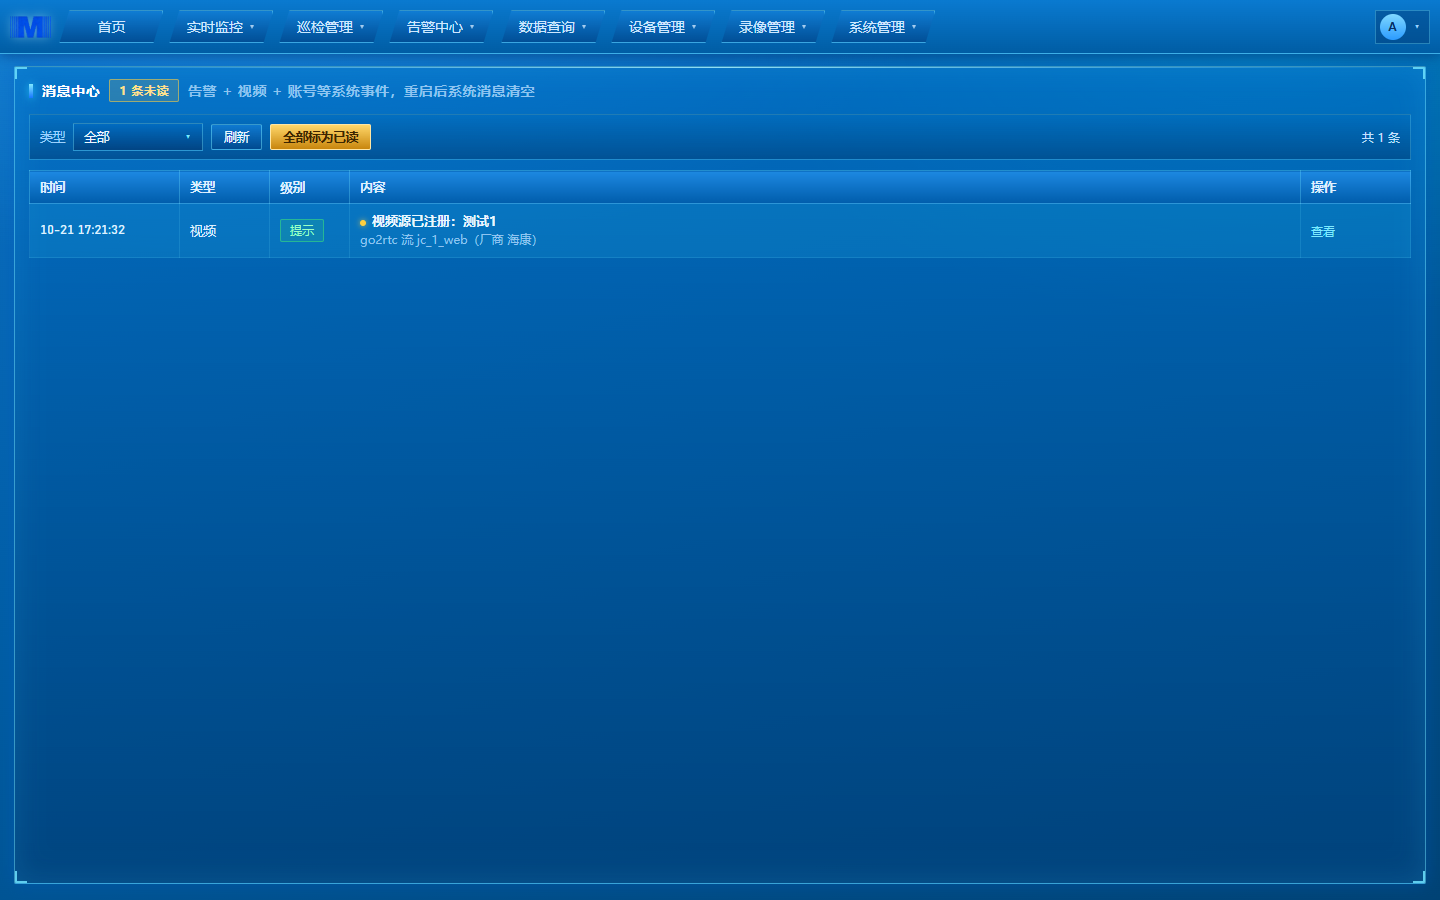
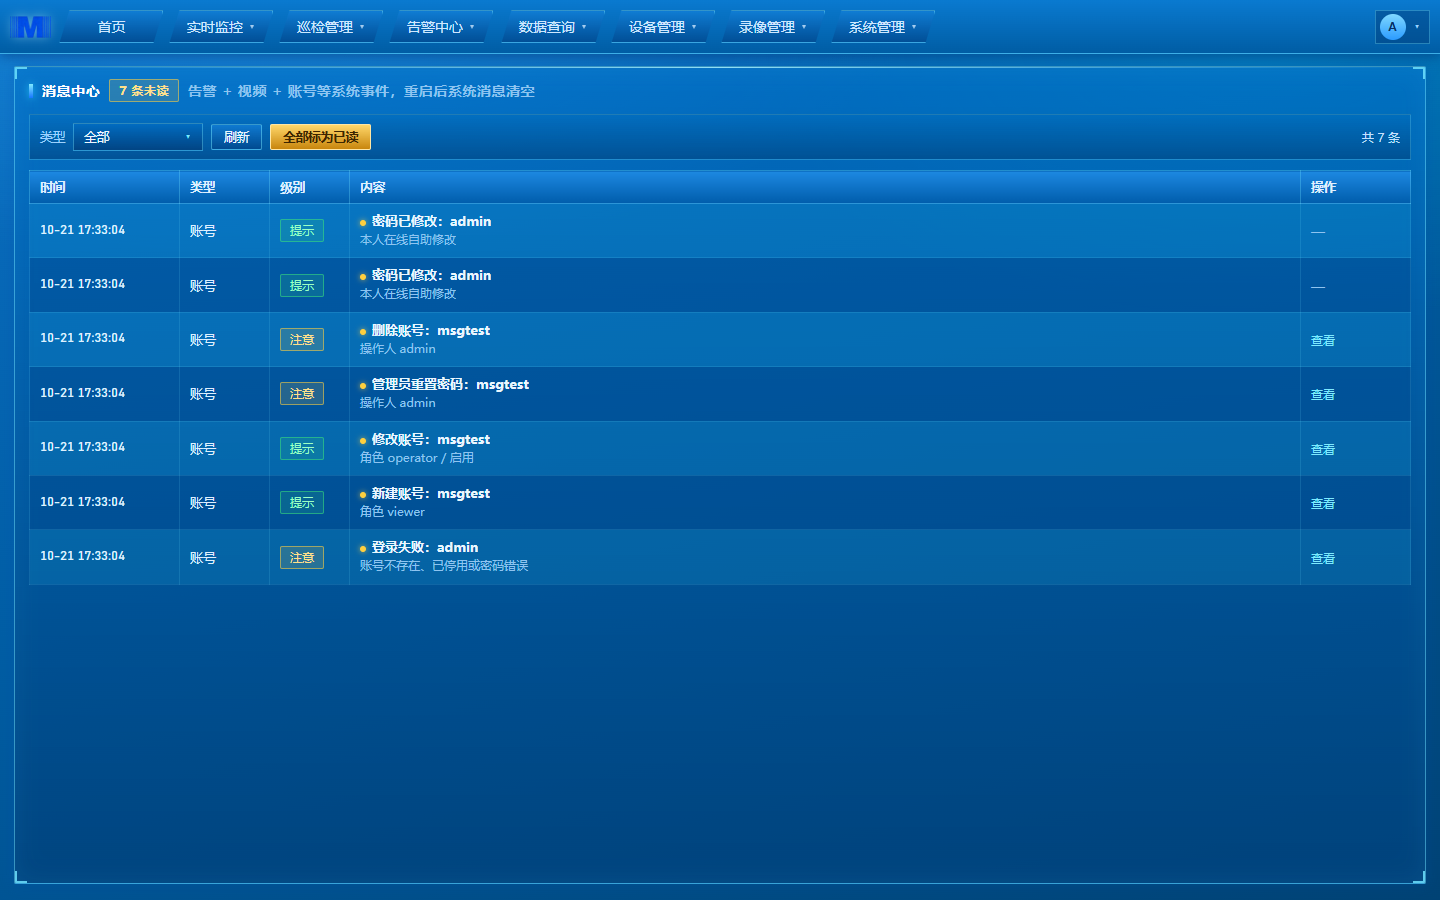
feat: 消息中心补齐系统事件留痕
新增写入点：
- 登录失败（账号不存在/停用/密码错）→ warn
- 新建账号 / 修改角色或启停 / 管理员重置密码 / 删除账号 → info/warn
- 本人自助改密成功 → info
- 能力探测抛异常 → danger（成功后不写，避免噪音）
- go2rtc 注册失败 → danger
- 抓帧失败 → warn，同一路 60 秒只记一条（防刷屏）

消息页筛选补「账号」分类；实测 7 条事件全部落库展示

diff --git a/web/src/pages/Messages.vue b/web/src/pages/Messages.vue
@@ -35,6 +35,7 @@ const filters = [
   { value: 'all', label: '全部' },
   { value: 'alarm', label: '告警' },
   { value: 'video', label: '视频' },
+  { value: 'user', label: '账号' },
   { value: 'system', label: '系统' },
 ]
 

diff --git a/server/app/api/v1/videos.py b/server/app/api/v1/videos.py
@@ -328,11 +328,28 @@ def snapshot(
         raise ExternalUnavailable("抓帧超时，检查摄像头是否在线", code="SNAPSHOT_TIMEOUT")
     if proc.returncode != 0 or not proc.stdout:
         # 错误信息里可能带完整 URL（含密码），这里只回固定文案
+        _log_snapshot_fail(v.name)
         raise ExternalUnavailable("抓帧失败，检查地址/账号/网络", code="SNAPSHOT_FAILED")
 
     _SNAP_CACHE[video_id] = (time.time(), proc.stdout)
     return Response(content=proc.stdout, media_type="image/jpeg",
                     headers={"Cache-Control": "no-store"})
+
+
+_snap_fail_ts: dict[str, float] = {}
+
+
+def _log_snapshot_fail(name: str) -> None:
+    """抓帧失败留痕，但同一路 60 秒只记一条，避免每 2 秒刷一条。"""
+    import time as _t
+    from app.services.messages import store as msg_store
+
+    now = _t.time()
+    if now - _snap_fail_ts.get(name, 0) < 60:
+        return
+    _snap_fail_ts[name] = now
+    msg_store.add("warn", "video", f"抓帧失败：{name}", "检查摄像头地址/账号/网络",
+                  {"to": "cameras"})
 
 
 def _g2_base() -> str:
@@ -380,8 +397,15 @@ def register_go2rtc(
 
     name = _slug(v.name, v.id)
     web_name = f"{name}_web"
-    _g2_call("PUT", f"/api/streams?name={name}&src={quote(v.url, safe='')}")
-    _g2_call("PUT", f"/api/streams?name={web_name}&src={quote(f'ffmpeg:{name}#video=h264', safe='')}")
+    from app.services.messages import store as msg_store
+
+    try:
+        _g2_call("PUT", f"/api/streams?name={name}&src={quote(v.url, safe='')}")
+        _g2_call("PUT", f"/api/streams?name={web_name}&src={quote(f'ffmpeg:{name}#video=h264', safe='')}")
+    except Exception as exc:  # noqa: BLE001 - 失败要留痕，再往上抛
+        msg_store.add("danger", "video", f"go2rtc 注册失败：{v.name}",
+                      f"{exc.__class__.__name__}：检查 go2rtc 是否可达", {"to": "cameras"})
+        raise
 
     # 确认 go2rtc 真的认了这两个流
     import json as _json

diff --git a/server/app/api/v1/users.py b/server/app/api/v1/users.py
@@ -20,6 +20,7 @@ from app.core.errors import BadRequest, NotFound
 from app.core.security import hash_password
 from app.db.session import get_db
 from app.models.user import User
+from app.services.messages import store as msg_store
 
 router = APIRouter(prefix="/users", tags=["users"])
 
@@ -89,6 +90,8 @@ def create_user(
     db.add(user)
     db.commit()
     db.refresh(user)
+    msg_store.add("info", "user", f"新建账号：{user.username}",
+                  f"角色 {user.role}", {"to": "users"})
     return _out(user)
 
 
@@ -112,6 +115,8 @@ def update_user(
         user.is_active = body.is_active
     db.commit()
     db.refresh(user)
+    msg_store.add("info", "user", f"修改账号：{user.username}",
+                  f"角色 {user.role} / {'启用' if user.is_active else '停用'}", {"to": "users"})
     return _out(user)
 
 
@@ -120,13 +125,15 @@ def reset_password(
     user_id: int,
     body: PasswordReset,
     db: Session = Depends(get_db),
-    _: User = Depends(require_roles("admin")),
+    me: User = Depends(require_roles("admin")),
 ) -> dict:
     user = db.get(User, user_id)
     if not user:
         raise NotFound("用户不存在")
     user.password_hash = hash_password(body.password)
     db.commit()
+    msg_store.add("warn", "user", f"管理员重置密码：{user.username}",
+                  f"操作人 {me.username}", {"to": "users"})
     return {"ok": True}
 
 
@@ -146,4 +153,6 @@ def delete_user(
         raise BadRequest("至少要保留一个管理员", code="LAST_ADMIN")
     db.delete(user)
     db.commit()
+    msg_store.add("warn", "user", f"删除账号：{user.username}",
+                  f"操作人 {me.username}", {"to": "users"})
     return {"ok": True}

diff --git a/server/app/api/v1/auth.py b/server/app/api/v1/auth.py
@@ -38,6 +38,11 @@ def login(body: LoginIn, response: Response, db: Session = Depends(get_db)) -> L
     settings = get_settings()
     user = db.scalar(select(User).where(User.username == body.username))
     if not user or not user.is_active or not verify_password(body.password, user.password_hash):
+        from app.services.messages import store as msg_store
+
+        msg_store.add("warn", "user", f"登录失败：{body.username}",
+                      "账号不存在、已停用或密码错误" if user else "账号不存在",
+                      {"to": "users"} if user else {})
         raise Unauthorized("用户名或密码错误")
 
     token = create_access_token(
@@ -91,6 +96,8 @@ def change_own_password(
         raise Unauthorized("新密码不能和原密码相同")
     user.password_hash = hash_password(body.new_password)
     db.commit()
+    from app.services.messages import store as msg_store
+    msg_store.add("info", "user", f"密码已修改：{user.username}", "本人在线自助修改", {})
     return {"ok": True}
 
 

diff --git a/server/app/api/v1/robots.py b/server/app/api/v1/robots.py
@@ -104,7 +104,15 @@ async def probe_robot(robot_id: int, db: Session = Depends(get_db),
                       adapter=Depends(get_adapter),
                       _user: User = Depends(require_roles("admin", "operator"))) -> dict:
     """重新做能力探测。只读接口，安全，但仍然记角色。"""
-    caps = await adapter.probe_capabilities()
+    try:
+        caps = await adapter.probe_capabilities()
+    except Exception as exc:  # noqa: BLE001 - 探测失败要留痕，再往上抛
+        from app.services.messages import store as msg_store
+
+        msg_store.add("danger", "system", "能力探测失败",
+                      f"{exc.__class__.__name__}：接口不可达或返回异常",
+                      {"to": "settings"})
+        raise
     robot = db.get(Robot, robot_id)
     if robot:
         robot.capabilities_json = json.dumps(caps, ensure_ascii=False)
